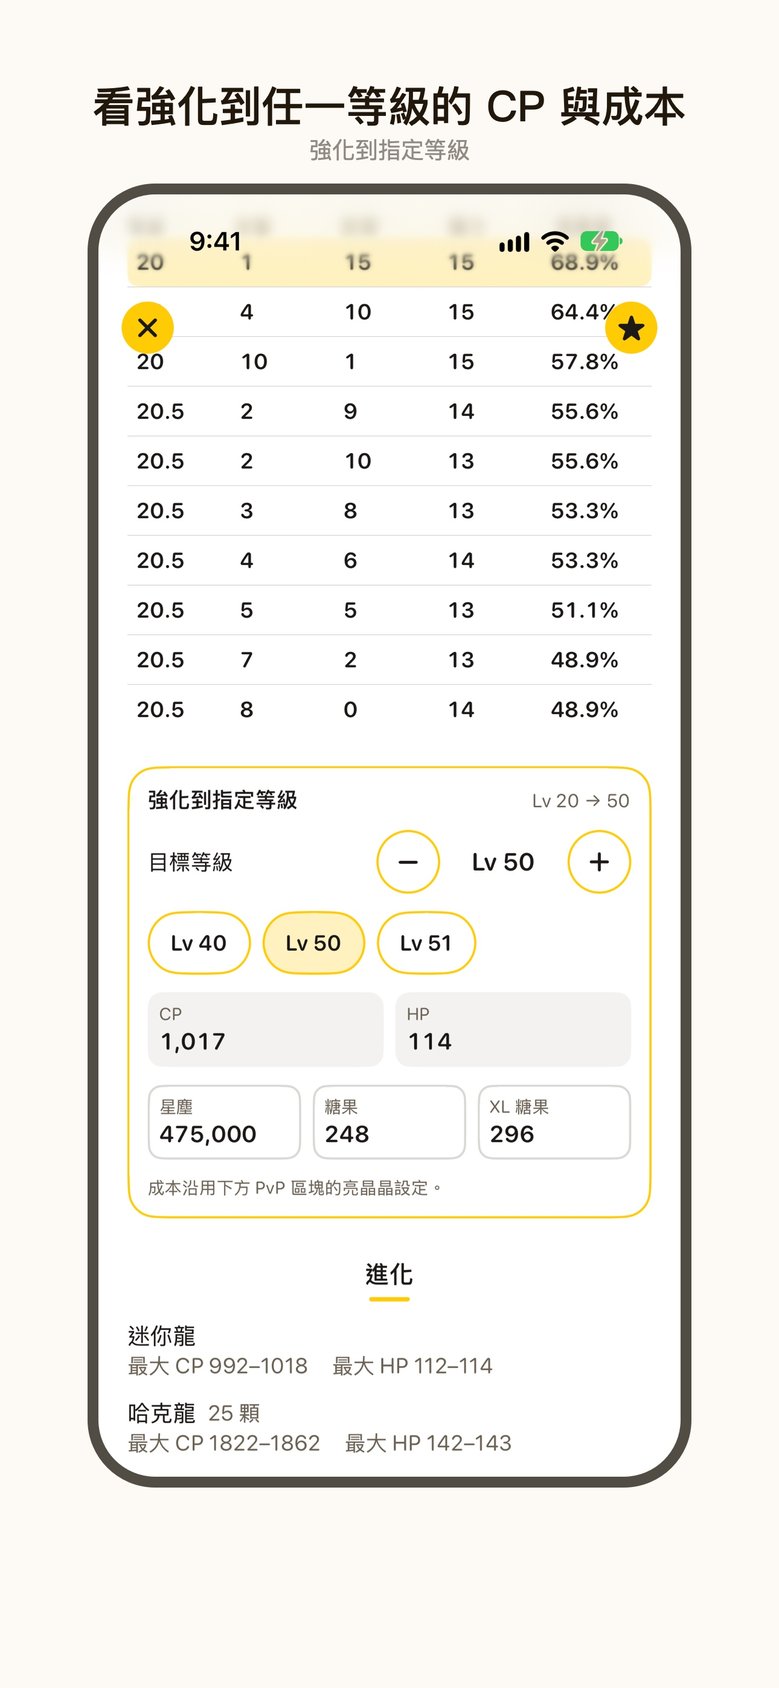
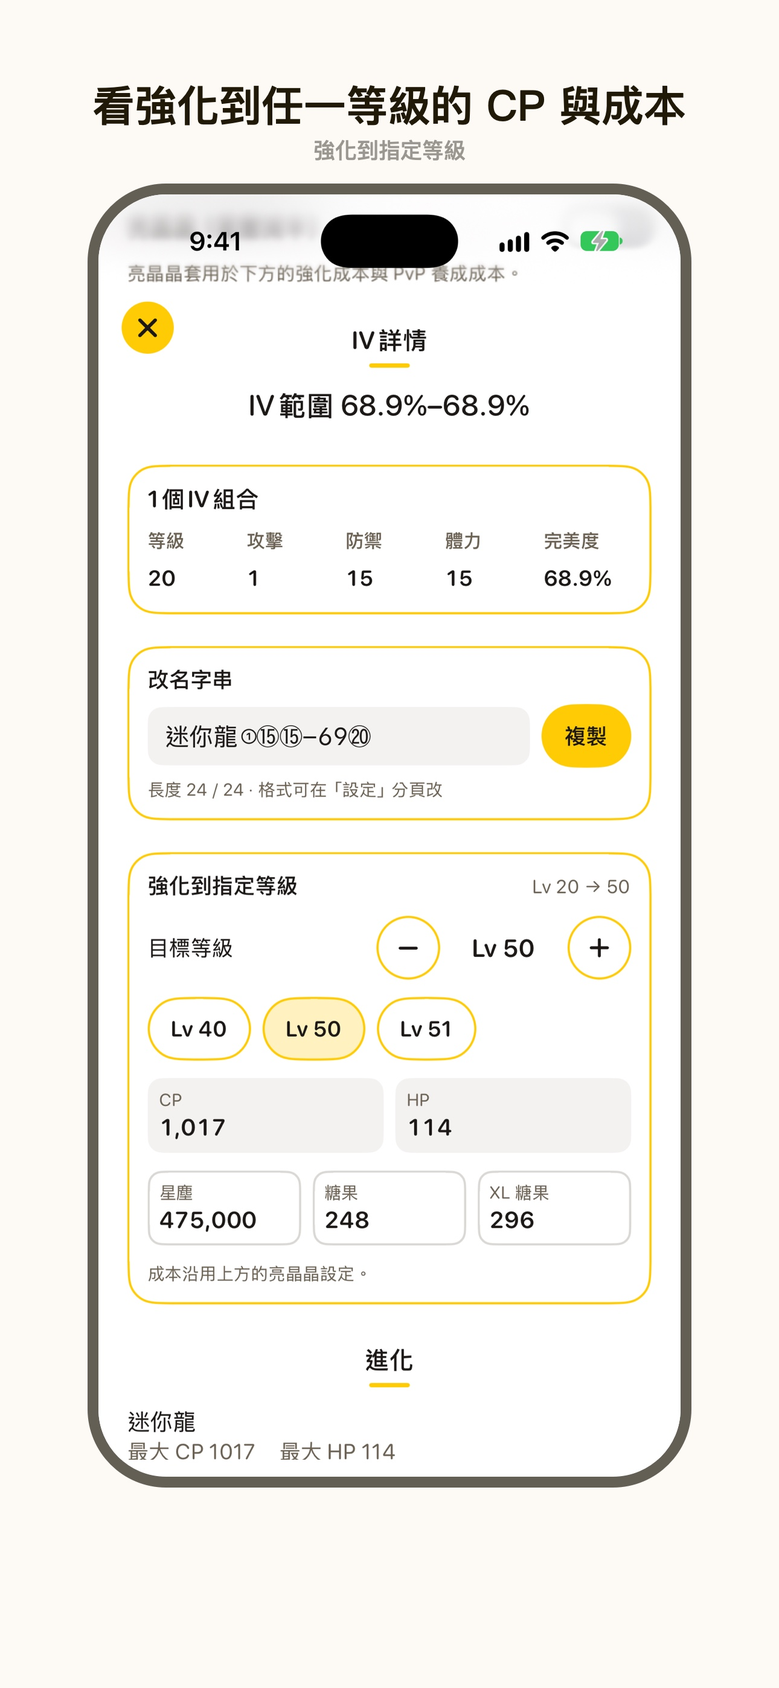
docs: update manual and screenshots for 1.5.1
PvP summary rows, toggles at the top of results, the nickname card and
its six templates, and My Team remembering the last league.

diff --git a/index.html b/index.html
@@ -129,10 +129,10 @@
         <li><strong>圖鑑</strong>：用編號、中文或英文名搜尋，點牌卡看三圍、屬性、進化、技能，以及各等級 CP、HP。進化後等級 50 的最大 CP、HP 只作參考。圖鑑與招式資料可從 Firebase Storage 的 <code>catalog/v2/catalog.json</code> 更新；離線時用 App 內建備份。</li>
         <li><strong>訓練師等級</strong>：可選，在 IV 頁左上角或「設定」分頁調整。用來對齊摘要上的等級範圍，不進入 CP 公式。沒設定時，同一組星塵仍可能對應多個等級。</li>
         <li><strong>結果</strong>：百分比環、攻擊／防禦／體力 IV、等級滑桿與下一步建議。可開啟好夥伴加成，看該等級加成後的 CP、HP。範圍很寬時圓環會顯示「?」。</li>
-        <li><strong>強化到指定等級</strong>：在 IV 詳情點一組，挑目標等級（Lv 1–51，有 40／50／51 快捷），看強化後的 CP、HP，以及需要的星塵、糖果與 XL 糖果。跟著 PvP 區塊的亮晶晶與淨化設定計算。</li>
-        <li><strong>PvP</strong>：結果頁列出小小盃、超級、高級、大師聯盟的名次（Rank）與佔 Rank 1 的百分比，進化鏈每一階都算。點一組 IV 可看最佳等級、CP、實際攻擊，以及養到該等級需要的星塵、糖果與 XL 糖果，也能一鍵複製改名字串。收藏牌卡會標出最佳名次。</li>
+        <li><strong>強化到指定等級</strong>：在 IV 詳情點一組，挑目標等級（Lv 1–51，有 40／50／51 快捷），看強化後的 CP、HP，以及需要的星塵、糖果與 XL 糖果。跟著結果頁上方的亮晶晶與淨化開關計算。</li>
+        <li><strong>PvP</strong>：結果頁列出小小盃、超級、高級、大師聯盟的名次（Rank）與佔 Rank 1 的百分比，進化鏈每一階都算。每個聯盟一行摘要，點一下就地展開；點一組 IV 可看最佳等級、CP、實際攻擊，以及養到該等級需要的星塵、糖果與 XL 糖果。收藏牌卡會標出最佳名次。</li>
         <li><strong>相剋</strong>：對戰時查屬性。「查對手」選 1–2 個屬性或搜尋名字，看該用什麼打、別用什麼，以及隊伍裡該派誰、別派誰；「我的隊伍」每個聯盟存 3 隻，一眼看到每隻的弱點與抗性。屬性都附上圖示，水、冰、龍這類相似屬性也好分辨。</li>
-        <li><strong>設定</strong>：PvP 等級上限（40／50／51）、IV 保底、預設聯盟、改名格式與訓練師等級。相剋、設定與 PvP 的黃色分段膠囊可以點，也可以左右拖曳切換。</li>
+        <li><strong>設定</strong>：PvP 等級上限（40／50／51）、IV 保底、預設聯盟、改名格式（6 種模板）與訓練師等級。相剋與設定的黃色分段膠囊可以點，也可以左右拖曳切換。</li>
         <li><strong>本機資料</strong>：歷史只存辨識結果與相簿識別碼，<strong>不存截圖檔</strong>。收藏只存你點下的那一組 IV。對戰隊伍只存種類與招式選擇。</li>
         <li><strong>廣告</strong>：IV 頁在「幫精靈評價」下方可能出現原生廣告，結果頁底部可能有橫幅，相剋分頁最下方可能有一張原生廣告。圖鑑與收藏第一層、設定沒有廣告。第一次會問相簿權限；廣告可能再問追蹤許可（ATT），拒絕後改為非個人化。細節見<a href="privacy.html">隱私權</a>。</li>
       </ul>
@@ -194,7 +194,7 @@
 
       <h3 id="zh-results">4. 結果與收藏</h3>
       <p>結果頁有百分比環、攻擊／防禦／體力 IV、等級滑桿與建議。範圍超過約 20 個百分點時，圓環顯示「?」。打開「好夥伴加成」後，該等級的 CP、HP 會標出加成後的數字。右上角星號把<strong>目前這一組</strong>存進收藏。左上角關閉回到 IV 頁。截圖上辨識到的招式會列在「招式」區（手動輸入時不顯示）。結果頁底部可能有橫幅廣告。往下捲是 PvP 區塊，見下一節。</p>
-      <p>在 IV 詳情表格點一組，表格下方會出現「強化到指定等級」：用 −／＋ 或 Lv 40、50、51 快捷挑目標等級，看強化後的 CP、HP 與星塵、糖果、XL 糖果。50 級以上靠正港好夥伴加成，不花資源。亮晶晶（星塵減半）與暗影的淨化設定在下方 PvP 區塊切換，這張卡會跟著算。</p>
+      <p>在 IV 詳情表格點一組，表格下方會出現「強化到指定等級」：用 −／＋ 或 Lv 40、50、51 快捷挑目標等級，看強化後的 CP、HP 與星塵、糖果、XL 糖果。50 級以上靠正港好夥伴加成，不花資源。亮晶晶（星塵減半）與暗影的「淨化後」開關在好夥伴加成下方，這張卡與 PvP 都跟著算。IV 組合表下方是改名字串卡：依「設定」的改名格式產生一個名稱，按「複製」回遊戲改名時貼上；IV 還有多組時，IV% 用最低值。</p>
       <p>底部「收藏」可搜尋名稱、編號或 CP。牌卡會標出這組 IV 在預設聯盟的最佳名次，例如「GL #1 · 100.0% · 哈克龍」。點牌卡會先顯示「載入中…」，再開結果，而且只呈現當初收藏的那一組 IV。收藏第一層沒有廣告。</p>
       <div class="manual-shots-row">
         <figure class="manual-shot">
@@ -213,19 +213,19 @@
 
       <h3 id="zh-pvp">5. PvP 名次與改名</h3>
       <ol>
-        <li>在結果頁往下捲到「PvP」，用上方的切換選聯盟：小小盃（CP 500）、超級（1,500）、高級（2,500）、大師（無上限）。小小盃只列第一階。</li>
-        <li>每一階一張牌卡，寫著名次區間、最佳等級與 CP，以及佔 Rank 1 的百分比。同一個體質乘積的組合名次相同。</li>
-        <li>在 IV 詳情表格點一組，PvP 區塊會改成這一組的明細：名次、最佳等級、CP、體質乘積、實際攻擊與 Rank 1 的比較，以及從目前等級養到最佳等級的星塵、糖果、XL 糖果與第二大招成本。暗影精靈可切換「淨化後」，也可打開「亮晶晶」看星塵減半。</li>
-        <li>按「複製」把改名字串（例如 <code>①⑮⑮GL1</code>）放進剪貼簿，回遊戲改名時貼上。格式可在「設定」分頁換。</li>
+        <li>在結果頁往下捲到「PvP」，每個聯盟一行摘要（預設聯盟排第一）：名次、最佳等級與 CP。點一行就地展開，再點一次收合；小小盃只列第一階。</li>
+        <li>展開後每一階一張牌卡，寫著名次區間、最佳等級與 CP，以及佔 Rank 1 的百分比。同一個體質乘積的組合名次相同。</li>
+        <li>在 IV 詳情表格點一組，PvP 區塊會改成這一組的明細：名次、最佳等級、CP、體質乘積、實際攻擊與 Rank 1 的比較，以及從目前等級養到最佳等級的星塵、糖果、XL 糖果與第二大招成本。「淨化後」與「亮晶晶」開關在結果頁上方。</li>
+        <li>改名字串在 IV 組合表下方的卡片（例如 <code>皮卡⑮⑮⑮-100⑳</code>），格式可在「設定」分頁的改名格式換；長度依遊戲規則自動調整。</li>
       </ol>
       <div class="manual-shots-row">
         <figure class="manual-shot">
           <img src="manual/manual-pvp-ranks-zh.png" width="402" height="874" alt="結果頁 PvP 區塊：超級聯盟各階名次">
-          <figcaption>PvP 區塊：進化鏈每一階的名次區間。</figcaption>
+          <figcaption>PvP 區塊：每個聯盟一行摘要。</figcaption>
         </figure>
         <figure class="manual-shot">
           <img src="manual/manual-pvp-detail-zh.png" width="402" height="874" alt="單組 IV 的 PvP 明細與養成成本">
-          <figcaption>點一組 IV：名次、實際攻擊、養成成本與改名字串。</figcaption>
+          <figcaption>點一組 IV：名次、實際攻擊與養成成本。</figcaption>
         </figure>
       </div>
       <figure class="manual-shot">
@@ -234,7 +234,7 @@
       </figure>
 
       <h3 id="zh-matchup">6. 相剋</h3>
-      <p>點底部「相剋」。「查對手」選對手的 1–2 個屬性，或在上方搜尋名字（也可打英文名或編號），下方會列出該用什麼屬性打（倍率越高越好）、別用哪些屬性。「我的隊伍」每個聯盟存一組 3 隻，卡片列出每隻的弱點、抗性與招式屬性；可在收藏長按、或結果頁 PvP 區塊加入。查對手時，隊伍卡會告訴你該派哪隻（用這隻打）、別派哪隻（別用），並標出被剋或招式被抵抗；會看隊員設定的招式，沒設招式就用隊員自身屬性。隊伍裡沒有能剋對手的隊員時，仍會推薦可以出戰的隊員並說明原因（抵抗對手招式、沒有屬性優勢，或全隊被剋時的相對最好），並建議可以帶哪些屬性的招式；沒有該避開的隊員時不顯示「別用」。沒設招式的隊員會以橘色標示，點卡片的「招　未設定」、編輯清單的那一列，或查對手的提示，就能直接設定招式。招式頁全圖鑑都能從招式清單挑；舊隊伍只選了招式屬性的隊員會保留原本的屬性，並提示改選招式。</p>
+      <p>點底部「相剋」。「查對手」選對手的 1–2 個屬性，或在上方搜尋名字（也可打英文名或編號），下方會列出該用什麼屬性打（倍率越高越好）、別用哪些屬性。「我的隊伍」每個聯盟存一組 3 隻（會記住上次選的聯盟），卡片列出每隻的弱點、抗性與招式屬性；可在收藏長按、或結果頁 PvP 區塊加入。查對手時，隊伍卡會告訴你該派哪隻（用這隻打）、別派哪隻（別用），並標出被剋或招式被抵抗；會看隊員設定的招式，沒設招式就用隊員自身屬性。隊伍裡沒有能剋對手的隊員時，仍會推薦可以出戰的隊員並說明原因（抵抗對手招式、沒有屬性優勢，或全隊被剋時的相對最好），並建議可以帶哪些屬性的招式；沒有該避開的隊員時不顯示「別用」。沒設招式的隊員會以橘色標示，點卡片的「招　未設定」、編輯清單的那一列，或查對手的提示，就能直接設定招式。招式頁全圖鑑都能從招式清單挑；舊隊伍只選了招式屬性的隊員會保留原本的屬性，並提示改選招式。</p>
       <div class="manual-shots-row">
         <figure class="manual-shot">
           <img src="manual/manual-matchup-opponent-zh.png" width="402" height="874" alt="相剋分頁：查對手，選了地面">
@@ -247,10 +247,10 @@
       </div>
 
       <h3 id="zh-settings">7. 設定</h3>
-      <p>點底部「設定」。等級上限決定排名時最多養到幾級：40 不用 XL 糖果，50 用 XL 糖果，51 是正港好夥伴再加 1 級。IV 保底排除不可能出現的組合，例如團體戰、孵蛋、研究的 IV 至少是 10。預設聯盟決定結果頁與收藏先顯示哪一個聯盟。這些設定會同時套用到結果頁與收藏。</p>
+      <p>點底部「設定」。等級上限決定排名時最多養到幾級：40 不用 XL 糖果，50 用 XL 糖果，51 是正港好夥伴再加 1 級。IV 保底排除不可能出現的組合，例如團體戰、孵蛋、研究的 IV 至少是 10。預設聯盟決定結果頁與收藏先顯示哪一個聯盟。這些設定會同時套用到結果頁與收藏。改名格式有 6 種模板（種類、三項 IV、IV%、等級、招式屬性或 PvP 名次的組合），上方有兩個預覽；遊戲暱稱最多 12 字、長度不超過 24（中文與圈號算 3、英數字算 1），太長時會先縮短種類名稱。</p>
       <figure class="manual-shot">
         <img src="manual/manual-settings-zh.png" width="402" height="874" alt="設定分頁">
-        <figcaption>設定分頁：等級上限、IV 保底、預設聯盟、改名格式。</figcaption>
+        <figcaption>設定分頁：等級上限、IV 保底、預設聯盟、改名格式模板。</figcaption>
       </figure>
 
       <h3 id="zh-history">8. 歷史與相簿排除</h3>
@@ -271,10 +271,10 @@
         <li><strong>Dex</strong>: Search by number or name, then open a page for base stats, type, evolution, moves, and CP/HP by level. Level-50 max CP and HP after evolution are reference figures. Dex and move data can refresh from Firebase Storage (<code>catalog/v2/catalog.json</code>) and uses the copy bundled in the app when offline.</li>
         <li><strong>Trainer level</strong>: Optional, set on the IV tab or in Settings. It lines up the level range on the summary and is not part of the CP formula. With it unset, one stardust cost can still match more than one level.</li>
         <li><strong>Results</strong>: A percent ring, attack / defense / HP IVs, a level slider, and a next step. Buddy boost shows that level’s boosted CP and HP. A wide range shows “?” in the ring.</li>
-        <li><strong>Power up to any level</strong>: Tap an IV set in the details table and pick a target level (Lv 1–51, with 40 / 50 / 51 shortcuts) to see the resulting CP and HP and the Stardust, Candy, and XL Candy needed. It follows the Lucky and purified settings in the PvP section.</li>
-        <li><strong>PvP</strong>: Results list the rank and percent of rank 1 in Little Cup, Great, Ultra, and Master League for every evolution stage. Tap an IV set to see its best level, CP, attack, and the Stardust, Candy, and XL Candy needed to get there, and copy a nickname in one tap. Saved cards show the best rank.</li>
+        <li><strong>Power up to any level</strong>: Tap an IV set in the details table and pick a target level (Lv 1–51, with 40 / 50 / 51 shortcuts) to see the resulting CP and HP and the Stardust, Candy, and XL Candy needed. It follows the Lucky and Purified switches at the top of the result.</li>
+        <li><strong>PvP</strong>: Results list the rank and percent of rank 1 in Little Cup, Great, Ultra, and Master League for every evolution stage. Each league is one summary row you tap to expand in place; tap an IV set to see its best level, CP, attack, and the Stardust, Candy, and XL Candy needed to get there. Saved cards show the best rank.</li>
         <li><strong>Matchups</strong>: Check types during a battle. In Opponent, pick one or two types or search a name to see what hits it hard, what to avoid, and which team member to send in or keep out. In My Team, save three members per league and see each one’s weaknesses and resistances at a glance. Every type has an icon, so similar types such as Water, Ice, and Dragon are easy to tell apart.</li>
-        <li><strong>Settings</strong>: PvP level cap (40 / 50 / 51), IV floor, default league, nickname format, and trainer level. The yellow segmented controls in Matchups, Settings, and PvP switch with a tap or a sideways drag.</li>
+        <li><strong>Settings</strong>: PvP level cap (40 / 50 / 51), IV floor, default league, nickname format (6 templates), and trainer level. The yellow segmented controls in Matchups and Settings switch with a tap or a sideways drag.</li>
         <li><strong>On this device</strong>: History stores the reading and a photo identifier, <strong>not the image file</strong>. Saved stores only the IV set you starred. Battle teams store only the species and move choices.</li>
         <li><strong>Ads</strong>: The IV tab may show a native ad under Appraise, and the results screen may show a banner, and the bottom of the Matchups tab may show one native ad. The Dex list, Dex detail, Saved list, and Settings do not. The app asks for photo access, and ads may ask for tracking permission (ATT); declining uses non-personalized ads. Details are on the <a href="privacy.html">Privacy</a> page.</li>
       </ul>
@@ -336,7 +336,7 @@
 
       <h3 id="en-results">4. Results and Saved</h3>
       <p>Results show the percent ring, attack, defense, and HP IVs, a level slider, and a suggestion. A spread of about 20 points or more shows “?” in the ring. Buddy boost marks that level’s boosted CP and HP. The star at the top right saves <strong>the set you are viewing</strong>. Close returns to the IV tab. Moves recognized in the screenshot are listed under “Moves” (not shown for manual entry). A banner may sit at the bottom. Scroll down for the PvP section, covered next.</p>
-      <p>Tap a set in the IV details table and “Power up to any level” appears under the table. Use − / + or the Lv 40, 50, and 51 shortcuts to pick a target level and see the resulting CP and HP and the Stardust, Candy, and XL Candy cost. Levels above 50 come from the Best Buddy boost and cost nothing. Lucky (half Stardust) and the purified switch for shadow Pokémon live in the PvP section below, and the card follows them.</p>
+      <p>Tap a set in the IV details table and “Power up to any level” appears under the table. Use − / + or the Lv 40, 50, and 51 shortcuts to pick a target level and see the resulting CP and HP and the Stardust, Candy, and XL Candy cost. Levels above 50 come from the Best Buddy boost and cost nothing. Lucky (half Stardust) and the purified switch for shadow Pokémon sit under Buddy boost, and both this card and PvP follow them. Below the IV table, the nickname card builds one name from the format in Settings; tap Copy and paste it when renaming in the game. While several IV sets remain, IV% uses the lowest.</p>
       <p>The Saved tab searches by name, number, or CP. Each card shows the set’s best rank in the default league, such as “GL #1 · 100.0% · Dragonair”. Tapping a card shows a loading state, then the result for only the IV set that was saved. The Saved list has no ad.</p>
       <div class="manual-shots-row">
         <figure class="manual-shot">
@@ -355,19 +355,19 @@
 
       <h3 id="en-pvp">5. PvP ranks and nicknames</h3>
       <ol>
-        <li>On the result, scroll to PvP and pick a league: Little Cup (CP 500), Great (1,500), Ultra (2,500), or Master (no cap). Little Cup lists the first stage only.</li>
-        <li>Each stage gets a card with its rank range, best level and CP, and percent of rank 1. Sets with the same stat product share a rank.</li>
-        <li>Tap a set in the IV details table to see that set alone: rank, best level, CP, stat product, attack compared with rank 1, and the Stardust, Candy, XL Candy, and second charged move cost from its current level. Shadow Pokémon can switch to purified, and Lucky halves the Stardust.</li>
-        <li>Tap Copy to put the nickname (such as <code>①⑮⑮GL1</code>) on the clipboard, then paste it when renaming in the game. Change the format in Settings.</li>
+        <li>On the result, scroll to PvP. Each league is one summary row (your default league first) with its rank, best level, and CP. Tap a row to expand it in place and tap again to collapse. Little Cup lists the first stage only.</li>
+        <li>Expanded, each stage gets a card with its rank range, best level and CP, and percent of rank 1. Sets with the same stat product share a rank.</li>
+        <li>Tap a set in the IV details table to see that set alone: rank, best level, CP, stat product, attack compared with rank 1, and the Stardust, Candy, XL Candy, and second charged move cost from its current level. The Purified and Lucky switches are at the top of the result.</li>
+        <li>The nickname lives on the card under the IV table (such as <code>Pika⑮⑮⑮-100⑳</code>). Change the format in Settings; the length is fitted to the game's limit.</li>
       </ol>
       <div class="manual-shots-row">
         <figure class="manual-shot">
           <img src="manual/manual-pvp-ranks-en.png" width="402" height="874" alt="PvP section with Great League ranks for each stage">
-          <figcaption>PvP: rank range for every evolution stage.</figcaption>
+          <figcaption>PvP: one summary row per league.</figcaption>
         </figure>
         <figure class="manual-shot">
           <img src="manual/manual-pvp-detail-en.png" width="402" height="874" alt="PvP details and power-up cost for one IV set">
-          <figcaption>One IV set: rank, attack, power-up cost, and nickname.</figcaption>
+          <figcaption>One IV set: rank, attack, and power-up cost.</figcaption>
         </figure>
       </div>
       <figure class="manual-shot">
@@ -376,7 +376,7 @@
       </figure>
 
       <h3 id="en-matchup">6. Matchups</h3>
-      <p>Open the Matchups tab. In Opponent, pick one or two of the opponent’s types, or search a name at the top (English name or number also works). Below you see which types hit it hard (higher is better) and which to avoid. In My Team, save a team of three for each league; each card lists weaknesses, resistances, and move types. Add members from a saved entry’s long-press menu or the PvP section of a result. The lookup also tells you which team member to send in and which to avoid, and why (weak to it, or moves resisted). It uses the moves you set for each member, or the member’s own types if none are set. When no member hits the opponent super effectively, it still suggests who to send in and why (resists its attacks, no type disadvantage, or the best of the rest when the whole team is at a disadvantage), and suggests move types to bring; the Avoid row is hidden when no one needs to be avoided. Members without moves are marked in orange; tap “Moves: Not set” on a card, the member’s row in the editor, or the hint in Opponent to set their moves. The move picker lists moves for every species in the Dex; members saved with move types only keep those types, with a hint to pick their moves again.</p>
+      <p>Open the Matchups tab. In Opponent, pick one or two of the opponent’s types, or search a name at the top (English name or number also works). Below you see which types hit it hard (higher is better) and which to avoid. In My Team (it remembers the league you picked last), save a team of three for each league; each card lists weaknesses, resistances, and move types. Add members from a saved entry’s long-press menu or the PvP section of a result. The lookup also tells you which team member to send in and which to avoid, and why (weak to it, or moves resisted). It uses the moves you set for each member, or the member’s own types if none are set. When no member hits the opponent super effectively, it still suggests who to send in and why (resists its attacks, no type disadvantage, or the best of the rest when the whole team is at a disadvantage), and suggests move types to bring; the Avoid row is hidden when no one needs to be avoided. Members without moves are marked in orange; tap “Moves: Not set” on a card, the member’s row in the editor, or the hint in Opponent to set their moves. The move picker lists moves for every species in the Dex; members saved with move types only keep those types, with a hint to pick their moves again.</p>
       <div class="manual-shots-row">
         <figure class="manual-shot">
           <img src="manual/manual-matchup-opponent-en.png" width="402" height="874" alt="Matchups tab: Opponent with Ground picked">
@@ -389,10 +389,10 @@
       </div>
 
       <h3 id="en-settings">7. Settings</h3>
-      <p>Open the Settings tab. The level cap is how far a set is powered up when ranking: 40 uses no XL Candy, 50 uses XL Candy, and 51 adds the Best Buddy level. The IV floor leaves out sets that cannot occur, such as raid, egg, and research Pokémon, which have at least 10 in each IV. The default league is the one results and Saved show first. These settings apply to both results and Saved.</p>
+      <p>Open the Settings tab. The level cap is how far a set is powered up when ranking: 40 uses no XL Candy, 50 uses XL Candy, and 51 adds the Best Buddy level. The IV floor leaves out sets that cannot occur, such as raid, egg, and research Pokémon, which have at least 10 in each IV. The default league is the one results and Saved show first. These settings apply to both results and Saved. The nickname format has 6 templates (combinations of species, three IVs, IV%, level, move types, or PvP rank) with two previews. A nickname is at most 12 characters and 24 in length (CJK characters and circled numbers count 3, letters and digits count 1); the species name is shortened first when it runs long.</p>
       <figure class="manual-shot">
         <img src="manual/manual-settings-en.png" width="402" height="874" alt="Settings tab">
-        <figcaption>Settings: level cap, IV floor, default league, and nickname format.</figcaption>
+        <figcaption>Settings: level cap, IV floor, default league, and nickname templates.</figcaption>
       </figure>
 
       <h3 id="en-history">8. History and the photo grid</h3>
